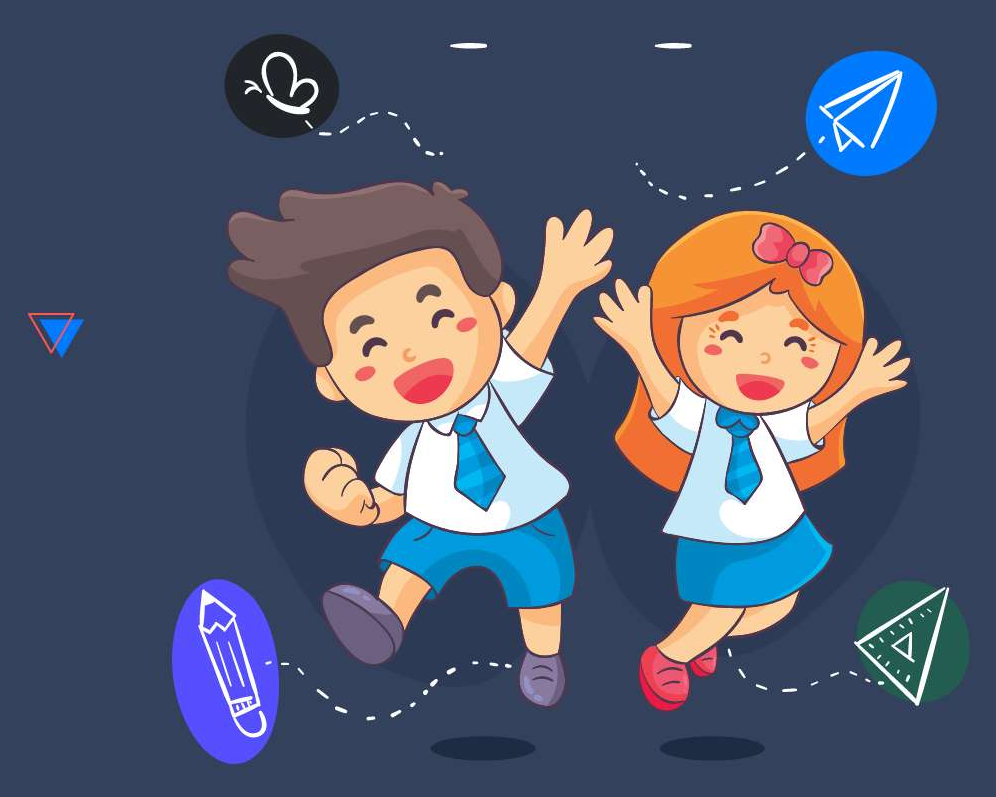
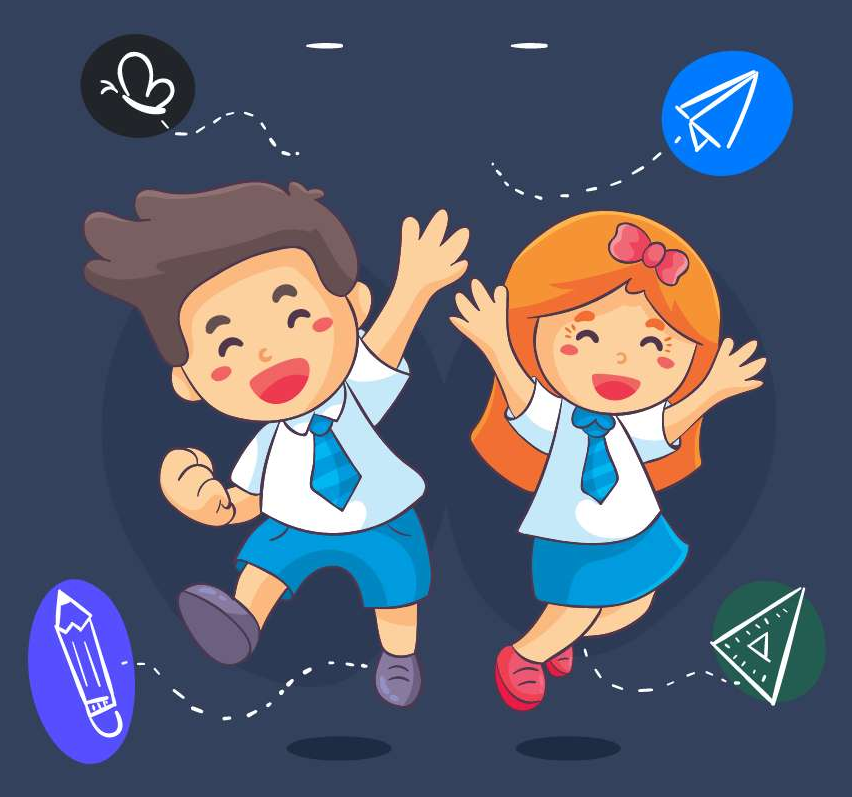
Changed Navbar and Landing Styles

diff --git a/index.html b/index.html
@@ -17,18 +17,23 @@
     <!--Fonts Link-->
     <link rel="preconnect" href="https://fonts.googleapis.com">
     <link rel="preconnect" href="https://fonts.gstatic.com" crossorigin>
-    <link href="https://fonts.googleapis.com/css2?family=Heebo:wght@300;400;500;600;700;800&display=swap" rel="stylesheet">
+    <link href="https://fonts.googleapis.com/css2?family=Roboto:wght@100;300;400;500;700;900&display=swap" rel="stylesheet">
 </head>
 <body id="Home">
-<nav class="navbar navbar-expand-lg">
+<nav class="navbar navbar-expand-lg sticky-top bg-white">
     <div class="container">
         <a class="navbar-brand" href="#Home">
             <img src="images/logo.png" alt="">
         </a>
-        <button class="navbar-toggler rounded-1" type="button" data-bs-toggle="collapse" data-bs-target="#navbarSupportedContent" aria-controls="navbarSupportedContent" aria-expanded="false" aria-label="Toggle navigation">
-            <i class="fa-solid fa-bars"></i>
+        <button class="navbar-toggler border-0 p-0" type="button" data-bs-toggle="offcanvas" data-bs-target="#offcanvasNavbar" aria-controls="offcanvasNavbar" aria-expanded="false" aria-label="Toggle navigation">
+            <div class="rounded-pill w-100 mb-1"></div>
+            <div class="rounded-pill mb-1 ms-auto"></div>
+            <div class="rounded-pill ms-auto"></div>
         </button>
-        <div class="collapse navbar-collapse flex-lg-grow-0" id="navbarSupportedContent">
+        <div class="offcanvas offcanvas-end flex-lg-grow-0 py-5 px-4 p-lg-0 w-100" id="offcanvasNavbar">
+            <button type="button" class="btn-close fs-5 d-lg-none position-absolute border rounded-circle opacity-100" data-bs-dismiss="offcanvas" aria-label="Close">
+                <i class="fa-solid fa-xmark"></i>
+            </button>
             <ul class="navbar-nav me-auto mb-2 mb-lg-0 fw-bold">
                 <li class="nav-item">
                     <a class="sa nav-link active px-3 p-lg-3 text-capitalize position-relative" aria-current="page" href="#Home">home</a>
@@ -37,18 +42,24 @@
                     <a class="nav-link px-3 p-lg-3 text-capitalize position-relative" href="#">events</a>
                 </li>
                 <li class="nav-item">
-                    <a class="nav-link px-3 p-lg-3 text-capitalize position-relative" href="#">classes</a>
-                </li>
-                <li class="nav-item">
                     <a class="nav-link px-3 p-lg-3 text-capitalize position-relative" href="#">teachers</a>
                 </li>
                 <li class="nav-item">
-                    <a class="nav-link px-3 p-lg-3 text-capitalize position-relative" href="#">blog</a>
+                    <a class="nav-link px-3 p-lg-3 text-capitalize position-relative" href="#">classes</a>
+                </li>
+                <li class="nav-item">
+                    <a class="nav-link px-3 p-lg-3 text-capitalize position-relative" href="#">about us</a>
+                </li>
+                <li class="nav-item">
+                    <a class="nav-link px-3 p-lg-3 text-capitalize position-relative" href="#">contact</a>
                 </li>
                 <li class="nav-item">
                     <a class="nav-link px-3 p-lg-3 text-capitalize position-relative" href="#">pages</a>
                 </li>
             </ul>
+            <!--
+                <i class="fa-solid fa-xmark"></i>
+                -->
         </div>
         <a class="phone btn text-white d-none d-lg-inline-block" href="#Home" role="button">
             <i class="fa-brands fa-whatsapp"></i>
@@ -57,31 +68,31 @@
     </div>
 </nav>
 <section class="landing">
-    <div class="container h-100">
-        <div class="row p-3 p-lg-5 m-0 align-items-center w-100 h-100 rounded-4">
-            <div class="col-6 text-white p-lg-5">
-                <div class="playCircle d-flex justify-content-center align-items-center border rounded-circle mb-4">
-                    <i class="fa-solid fa-play"></i>
-                </div>
-                <h4 class="text-capitalize fw-bold">we are child care</h4>
-                <h2 class="text-capitalize fw-bold fs-1">Professional</h2>
-                <p class="lh-base mb-lg-5">You must know that there is nothing higher and stronger and more wholesome and good for life in the future than some good memory, specially a memory of childhood.</p>
-                <div>
-                    <a class="apply btn rounded-1 bg-white mb-3 me-lg-3 me-md-3" href="#" role="button">
-                        <span class="text-capitalize fw-bold me-1">apply now</span>
-                        <i class="fa-solid fa-arrow-right"></i>
-                    </a>
-                    <a class="learn btn rounded-1 bg-transparent border-white mb-3" href="#" role="button">
-                        <span class="text-capitalize text-white fw-bold me-1">learn more</span>
-                        <i class="fa-solid fa-arrow-right text-white"></i>
-                    </a>
-                </div>
+    <div class="row py-5 px-lg-0 px-md-5 m-0 align-items-center w-100 h-100 rounded-4">
+        <div class="col-lg-6 text-white px-5 order-1 order-lg-0 d-flex flex-column align-items-center align-items-sm-start text-center text-sm-start">
+            <div class="playCircle mt-5 mt-lg-0 d-flex justify-content-center align-items-center border rounded-circle">
+                <i class="fa-solid fa-play fs-3"></i>
             </div>
-            <div class="col-6 image p-0">
-                <img src="images/landing.png" class="w-100 h-100">
+            <h1 class="text-capitalize fw-bold mb-0 mt-3 mt-md-0">
+                <span>we are child care</span> Professional
+            </h1>
+            <p class="lh-lg mb-4 mt-2 mb-sm-5 mt-sm-4">You must know that there is nothing higher and stronger and more wholesome and good for life in the future than some good memory, specially a memory of childhood.</p>
+            <div class="row gap-4 w-100 m-0 justify-content-center justify-content-sm-start">
+                <a class="apply btn rounded-1 bg-transparent border-white position-relative d-inline-flex align-items-center justify-content-center" href="#" role="button">
+                    <div class="h-100 position-absolute"></div>
+                    <span class="text-capitalize text-white fw-bold me-3 ">apply now</span>
+                    <i class="fa-solid fa-arrow-right text-white"></i>
+                </a>
+                <a class="learn btn rounded-1 bg-transparent border-white position-relative d-inline-flex align-items-center justify-content-center" href="#" role="button">
+                    <div class="h-100 position-absolute"></div>
+                    <span class="text-capitalize text-white fw-bold me-3">learn more</span>
+                    <i class="fa-solid fa-arrow-right text-white"></i>
+                </a>
             </div>
         </div>
-
+        <div class="image col-lg-6 px-5 order-0 order-lg-1">
+            <img src="images/landing.png" class="w-100 h-auto">
+        </div>
     </div>
 </section>
 <section class="WorkC">

diff --git a/CSS/style.css b/CSS/style.css
@@ -1,25 +1,35 @@
 body {
-    font-family: "Heboo", sans-serif;
+    font-family: "Roboto", sans-serif;
 }
 :root {
-    --Blue-color: #4d41be;
-    --Navy-color: #34425d;
+    --Blue-color: #564fff;
+    --Navy-color: #33415c;
     --Btn-color: #564bff;
     --Orange-color: #ffa847;
     --Red-color: #ed5864;
-
 }
 /*Start Navbar*/
 nav .navbar-brand img {
-    height: 40px;
-    width: 80px;
+    height: 30px;
+    width: 100px;
 }
 nav button[class*="navbar-toggler"] {
-    border-color: var(--Navy-color);
-    color: var(--Navy-color);
+    width: 30px;
+    height: 27px;
+    color: var(--Orange-color);
 }
 nav button[class*="navbar-toggler"]:focus {
     box-shadow: none;
+}
+nav button[class*="navbar-toggler"] > div {
+    height: 3px;
+    background-color: var(--Orange-color);
+}
+nav button[class*="navbar-toggler"] > div:nth-child(2){
+    width: 26px;
+}
+nav button[class*="navbar-toggler"] > div:nth-child(3) {
+    width: 23px;
 }
 nav ul li {
     width: fit-content;
@@ -30,20 +40,31 @@ nav ul li a {
 nav ul li a::after {
     content: "";
     position: absolute;
-    width: calc(100% - 2rem);
-    height: 1px;
+    width: 0;
+    height: 3px;
     background-color: var(--Blue-color);
-    left: 50%;
+    left: 1rem;
     bottom: 0.5rem;
-    transform: translateX(-50%);
-    display: none;
+    transition: 0.3s;
 }
 nav ul li a[class*="active"],
 nav ul li a:hover{
     color: var(--Blue-color)!important;
 }
 nav ul li a:hover::after {
-    display: block;
+    width: calc(100% - 2rem);
+}
+nav .btn-close {
+    width: 40px;
+    height: 40px;
+    box-sizing: border-box;
+    right: 24px;
+    background-image: none;
+    color: var(--Orange-color)!important;
+    border-color: var(--Orange-color)!important;
+}
+nav .btn-close:focus {
+    box-shadow: none;
 }
 nav .phone {
     background-color: var(--Btn-color);
@@ -54,23 +75,73 @@ nav .phone:hover {
 /*End Navbar*/
 
 /*Start Landing*/
-.landing {
-    height: calc(100vh - 72px);
-}
 .landing .row {
     background-color: var(--Navy-color);
 }
 .landing .playCircle {
-    width: 40px;
-    height: 40px;
+    width: 65px;
+    height: 65px;
     color: var(--Orange-color);
     border-color: var(--Orange-color)!important;
 }
-.landing .btn {
-    font-size: 13px;
+@media (max-width: 576px) {
+    .landing h1 {
+        font-size: 36px;
+    }
+    .landing h1 span {
+        font-size: 36px;
+    }
 }
-.landing .apply {
-    color: var(--Navy-color)!important;
+@media (max-width: 768px) and (min-width: 576px) {
+    .landing h1 {
+        font-size: 50px;
+    }
+    .landing h1 span {
+        font-size: 48px;
+    }
+}
+@media (min-width: 768px) {
+    .landing h1 {
+        font-size: 70px;
+    }
+    .landing h1 span {
+        font-size: 48px;
+    }
+}
+.landing .btn {
+    width: 148px;
+    height: 50px;
+}
+.landing .apply,
+.learn {
+    z-index: 1;
+}
+.landing .apply > div:empty,
+.landing .learn > div:empty {
+    width: 0;
+    background-color: var(--Blue-color);
+    border-radius: 0.25rem;
+    left: 0;
+    top: 50%;
+    transform: translateY(-50%);
+    transition: 0.3s;
+    z-index: -1;
+}
+.landing .apply > svg,
+.landing .learn > svg {
+    transition: 0.3s;
+}
+.landing .apply:hover,
+.landing .learn:hover {
+    border-color: var(--Blue-color)!important;
+}
+.landing .apply:hover > div:empty,
+.landing .learn:hover > div:empty {
+    width: 100%;
+}
+.landing .apply:hover > svg,
+.landing .learn:hover > svg {
+    transform: translateX(4px);
 }
 /*End Landing*/
 

diff --git a/JS/JS.js b/JS/JS.js
@@ -1,3 +1,4 @@
+/*Start play video button*/
 document.getElementById("playVideo").onclick = function () {
     document.getElementById("video").play();
     document.getElementById("playVideo").style.visibility = "hidden";
@@ -8,3 +9,4 @@ document.getElementById("video").onclick = function () {
         document.getElementById("playVideo").style.visibility = "initial";
     }
 };
+/*End play video button*/
